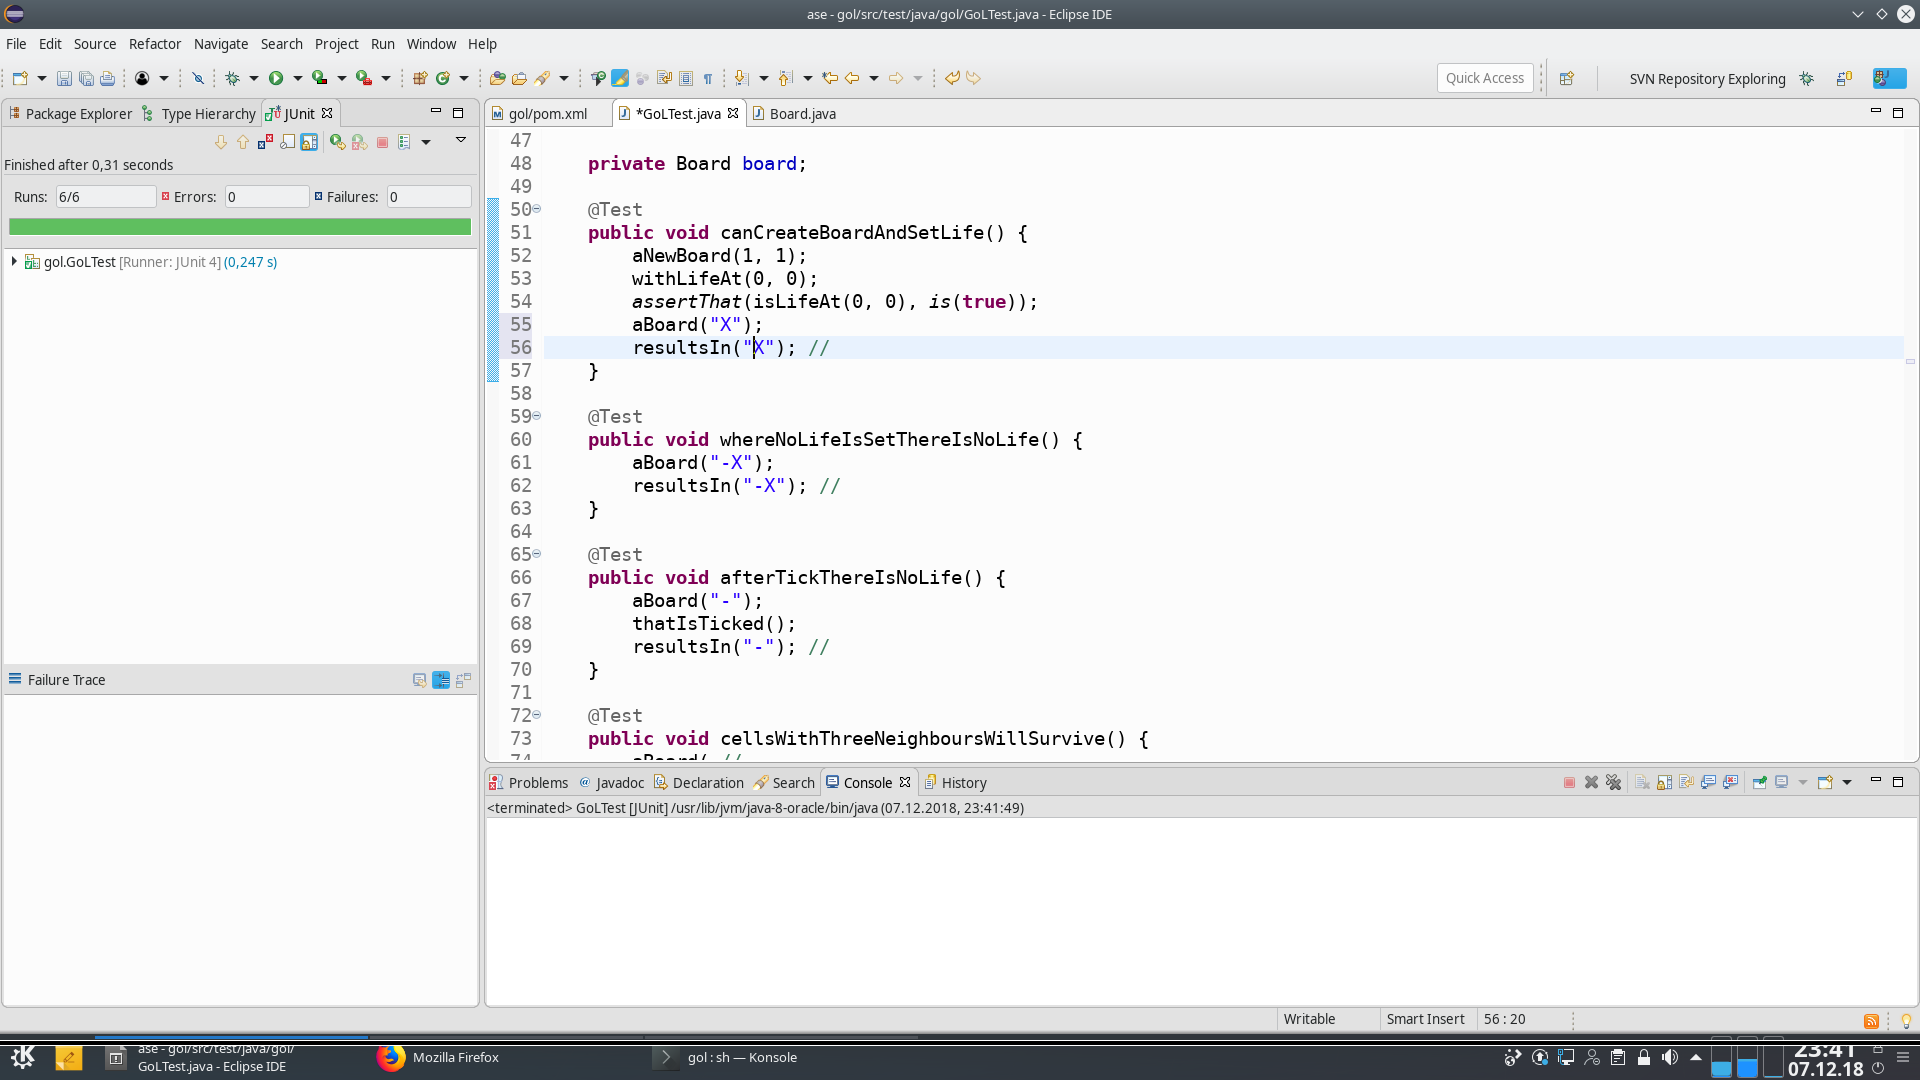
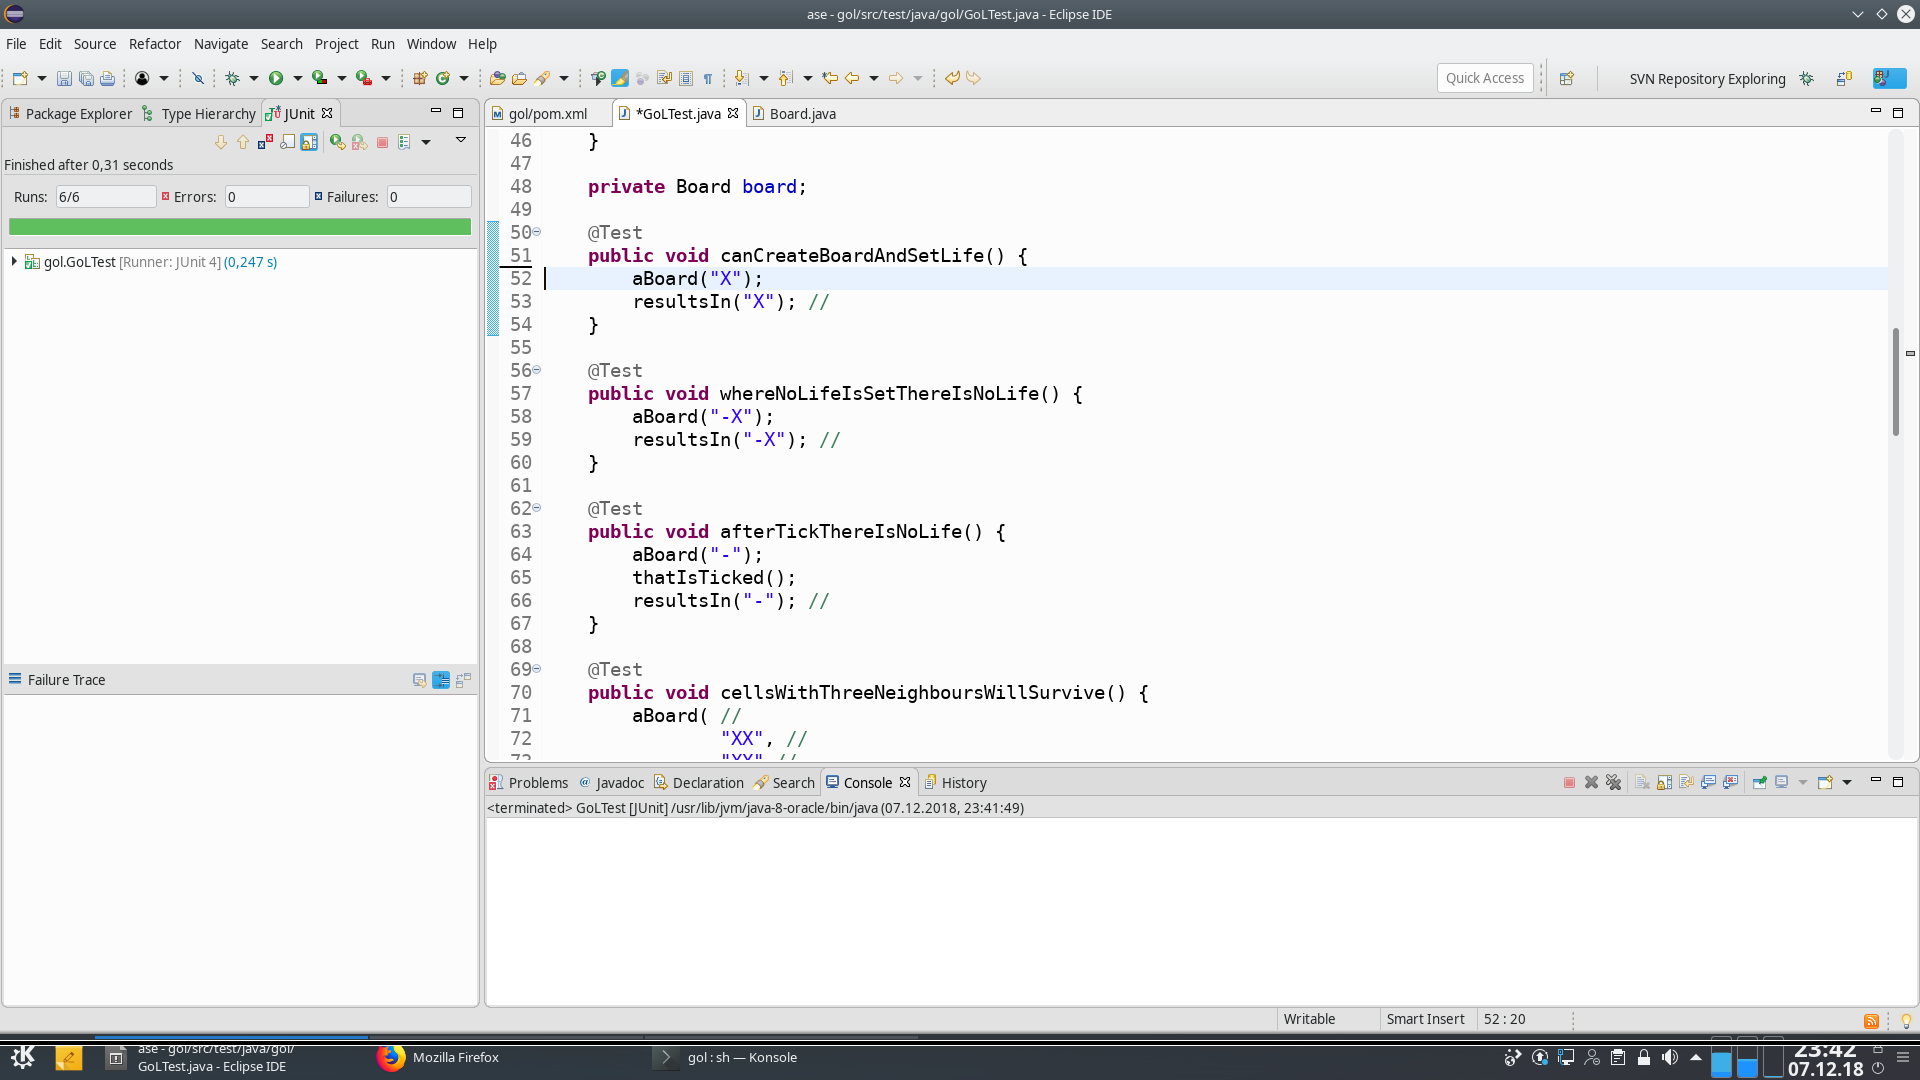
autocommit on change

diff --git a/src/test/java/gol/GoLTest.java b/src/test/java/gol/GoLTest.java
@@ -49,9 +49,6 @@ public class GoLTest {
 
 	@Test
 	public void canCreateBoardAndSetLife() {
-		aNewBoard(1, 1);
-		withLifeAt(0, 0);
-		assertThat(isLifeAt(0, 0), is(true));
 		aBoard("X");
 		resultsIn("X"); //
 	}
